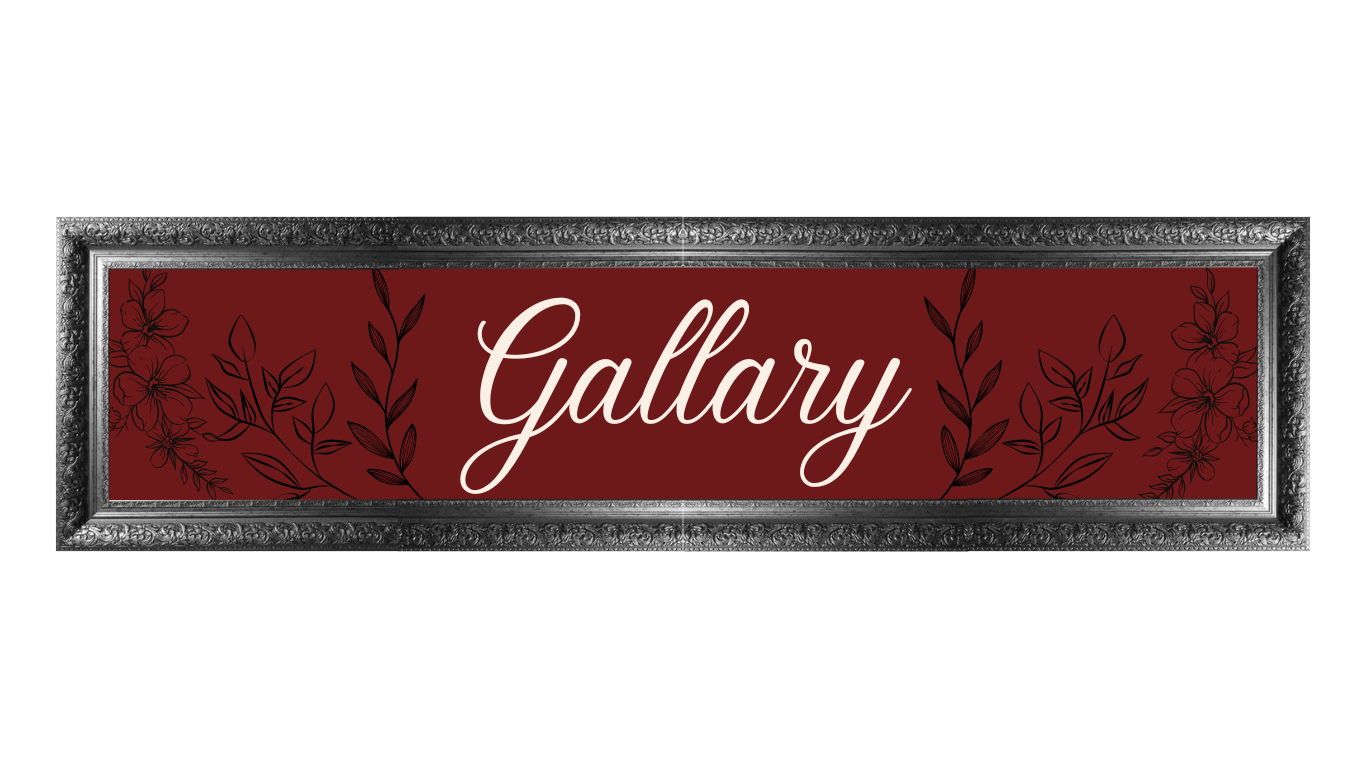
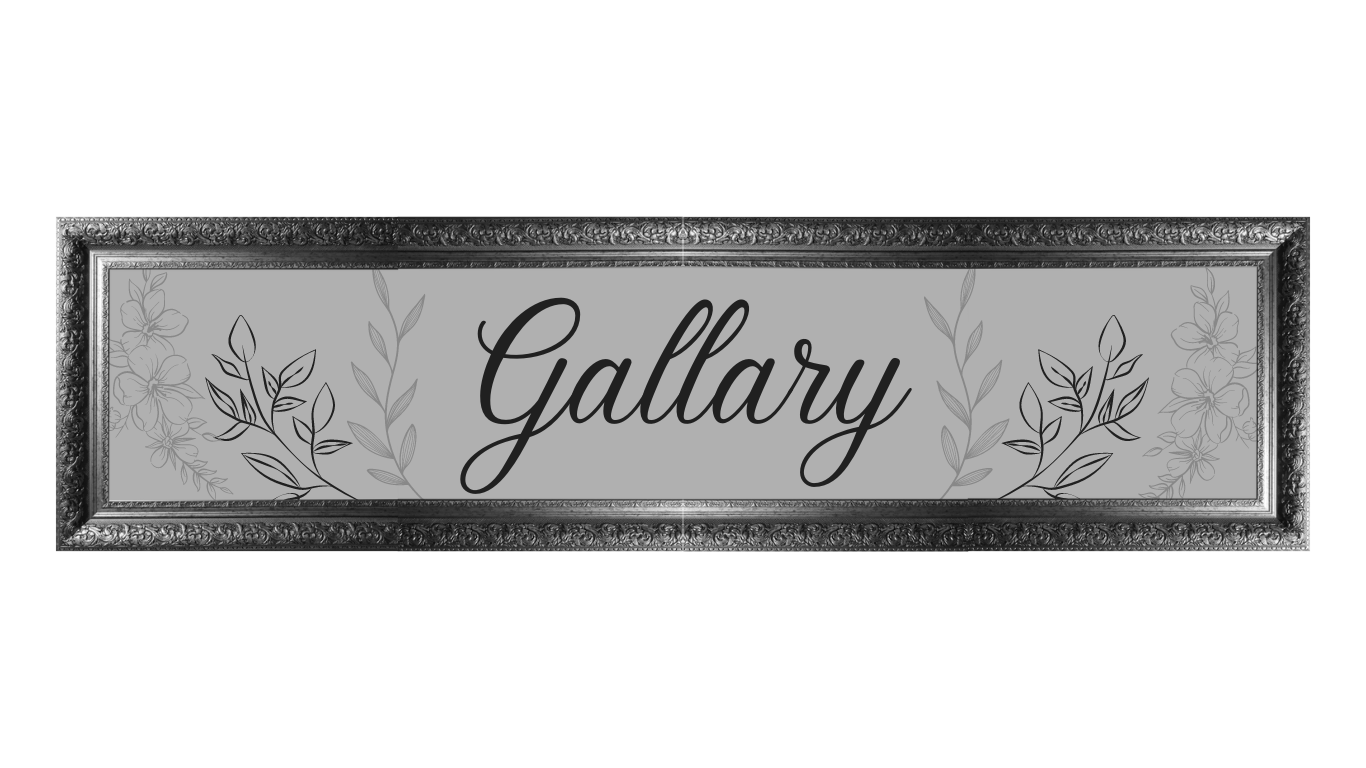
laptop

Changed region(s): [[0.0615, 0.3438, 0.9224, 0.6562]]

diff --git a/src/shared/style.tsx b/src/shared/style.tsx
@@ -1,28 +1,31 @@
+// src/styles/styles.ts
+
+// const styles = {
+//   scrolled: {
+//     position: 'absolute',
+//     top: 0,
+//     width: '100%',
+//   },
+//   aboutMe: {
+//     position: 'relative', // Initial position is relative
+//     top: 'initial',       // Reset the top property
+//     width: '100%',
+//   },
+//   aboutMeScrolled: {
+//     position: 'absolute',
+//     top: 0,
+//     width: '100%',
+//   },
+// };
+
 const styles = {
-    boxWidth: "xl:max-w-[1280px] w-full",
-  
-    heading2: "font-poppins font-semibold xs:text-[48px] text-[40px] text-white xs:leading-[76.8px] leading-[66.8px] w-full",
-    paragraph: "font-poppins font-normal text-dimWhite text-[18px] leading-[30.8px]",
-  
-    flexCenter: "flex justify-center items-center",
-    flexStart: "flex justify-center items-start",
-  
-    paddingX: "sm:px-16 px-6",
-    paddingY: "sm:py-16 py-6",
-    padding: "sm:px-16 px-6 sm:py-12 py-4",
-  
-    marginX: "sm:mx-16 mx-6",
-    marginY: "sm:my-16 my-6",
-  };
-  
-  export const layout = {
-    section: `flex md:flex-row flex-col ${styles.paddingY}`,
-    sectionReverse: `flex md:flex-row flex-col-reverse ${styles.paddingY}`,
-  
-    sectionImgReverse: `flex-1 flex ${styles.flexCenter} md:mr-10 mr-0 md:mt-0 mt-10 relative`,
-    sectionImg: `flex-1 flex ${styles.flexCenter} md:ml-10 ml-0 md:mt-0 mt-10 relative`,
-  
-    sectionInfo: `flex-1 ${styles.flexStart} flex-col`,
-  };
-  
-  export default styles;
+  overlay: {
+    position: 'absolute',
+    top: 0,
+    left: 0,
+    width: '100%',
+    zIndex: 1,
+  },
+};
+
+export default styles;

diff --git a/src/components/Home/index.tsx b/src/components/Home/index.tsx
@@ -13,7 +13,7 @@ const Home = ({setSelectedPage} : Props) => {
 
  
 return ( 
-    <section id="home" className="gap-16 md:h-screen md:pb-0">
+    <section id="home" className="  gap-16 md:h-screen md:pb-0">
 
         
     {/*image and main header*/}
@@ -45,8 +45,8 @@ return (
         </div>  
       
 {/*image*/}
-<div className="z-10  md:z-10; md:ml-40 md:mt-16 md:justify-items-end md:h-3/5 md:w-3/5 ">
-    <Spline scene="https://prod.spline.design/l1M2Zxypra5uUpTB/scene.splinecode"/>
+<div className="z-10 md:z-10; md:ml-40 md:mt-16 md:justify-items-end md:h-4/5 md:w-4/5 border-none">
+<Spline scene="https://prod.spline.design/BgJQxS3ZVb8jH7hX/scene.splinecode" />
 </div>
 </div>
 

diff --git a/src/components/Gallary/index.tsx b/src/components/Gallary/index.tsx
@@ -19,7 +19,7 @@ type Props={
 export const Gallary = ({setSelectedPage}:Props) => {
     const isAboveMediumScreens = useMediaQuery("(min-width:1060px)");
   return (
-    <section id="gallary" className="bg-Gray mx-auto h-auto min-h-full w-full md:mt-0">{/*add mt if you want space between gallary and home */}
+    <section id="gallary" className="bg-Gray mx-auto mt-96 h-auto min-h-full w-full md:mt-0">{/*add mt if you want space between gallary and home */}
 
 
 <motion.div

diff --git a/src/components/Home/Spline.tsx b/src/components/Home/Spline.tsx
@@ -2,6 +2,6 @@ import Spline from '@splinetool/react-spline';
 
 export default function App() {
   return (
-    <Spline scene="https://prod.spline.design/l1M2Zxypra5uUpTB/scene.splinecode" />
+    <Spline scene="https://prod.spline.design/BgJQxS3ZVb8jH7hX/scene.splinecode" />
   );
 }

diff --git a/tailwind.config.js b/tailwind.config.js
@@ -26,6 +26,8 @@ export default {
        "Brick":"#B22222",
        "Ferrari":"#FF2800",
        "LRed":"#ff4747",
+       "DGray":"#0A0A0A",
+       "DDGray":"#121212",
       },
       
 backgroundImage: (theme) => ({
